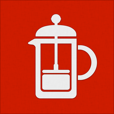
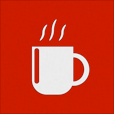
Cafetiere v1.2
With following features:
-New icon
-New AeroPress
-New cool animations
-Several bug fixes (see previous commits)

Changed region(s): [[0.2368, 0.1053, 0.8684, 0.8684]]

diff --git a/FrenchPress/FrenchpressViewController.m b/FrenchPress/FrenchpressViewController.m
@@ -38,7 +38,7 @@ BrewMethod brewMethod;
         
         // Set the application defaults
         NSUserDefaults *defaults = [NSUserDefaults standardUserDefaults];
-        NSDictionary *appDefaults = @{@"startAtLaunch" : @"YES",
+        NSDictionary *appDefaults = @{@"startAtLaunch" : @"NO",
                                         @"frenchWaterTime" : kFrenchWaterTime,
                                         @"frenchStirTime" : kFrenchStirTime,
                                         @"frenchSteepTime" : kFrenchSteepTime,
